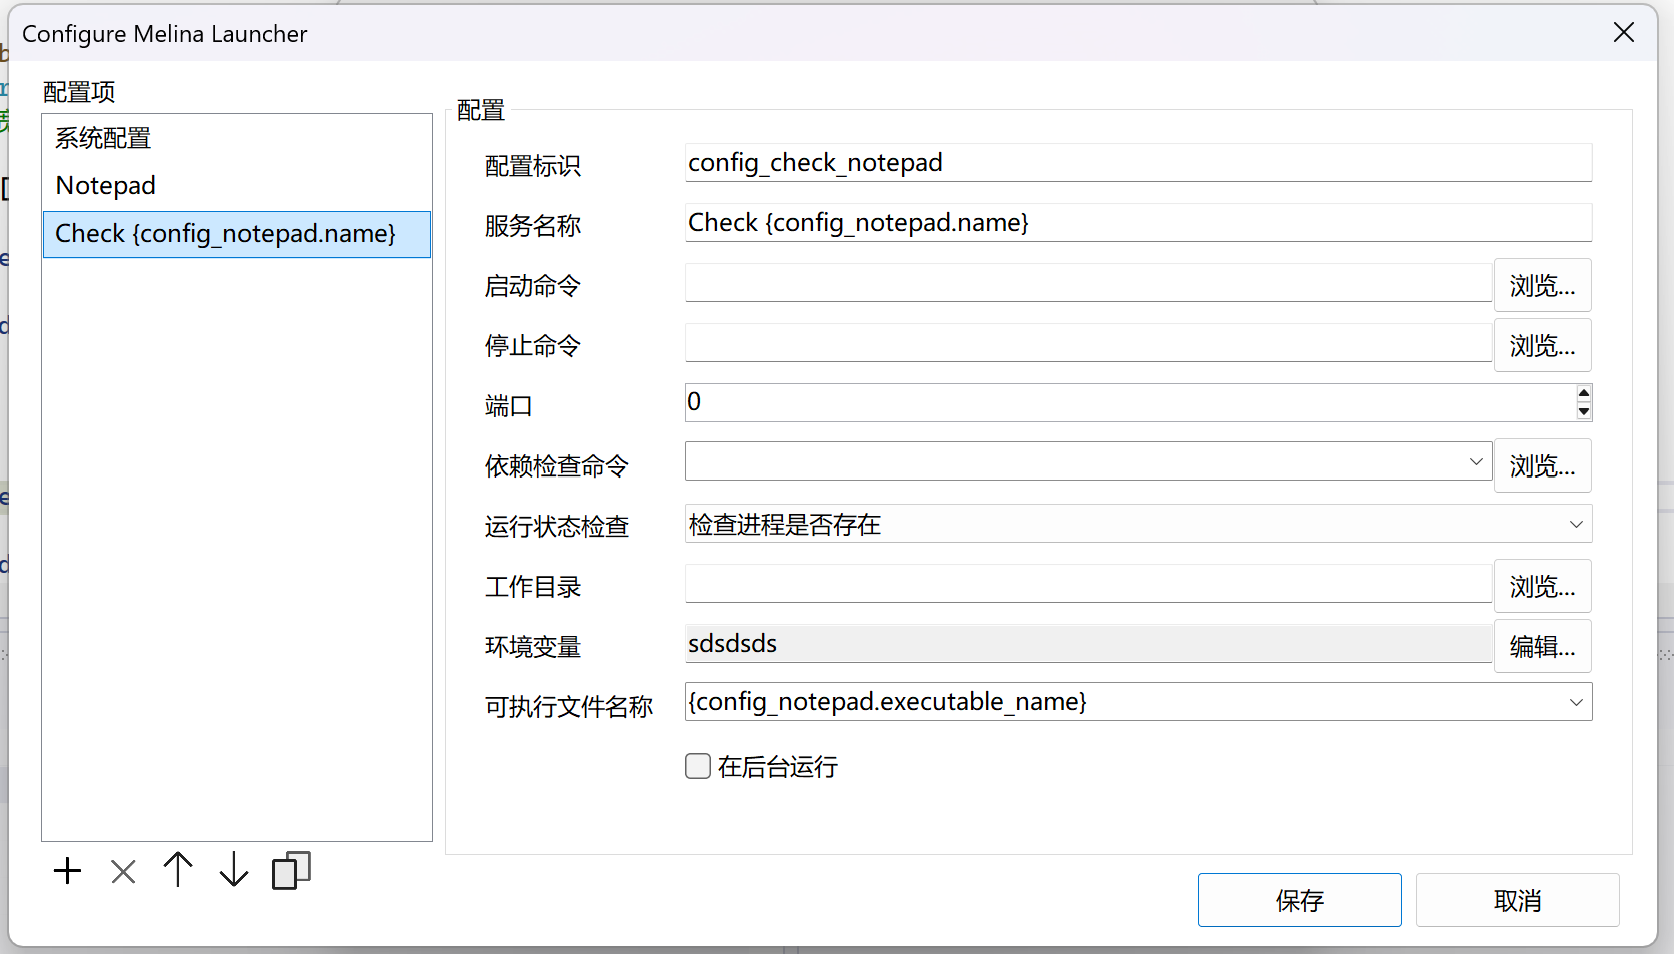
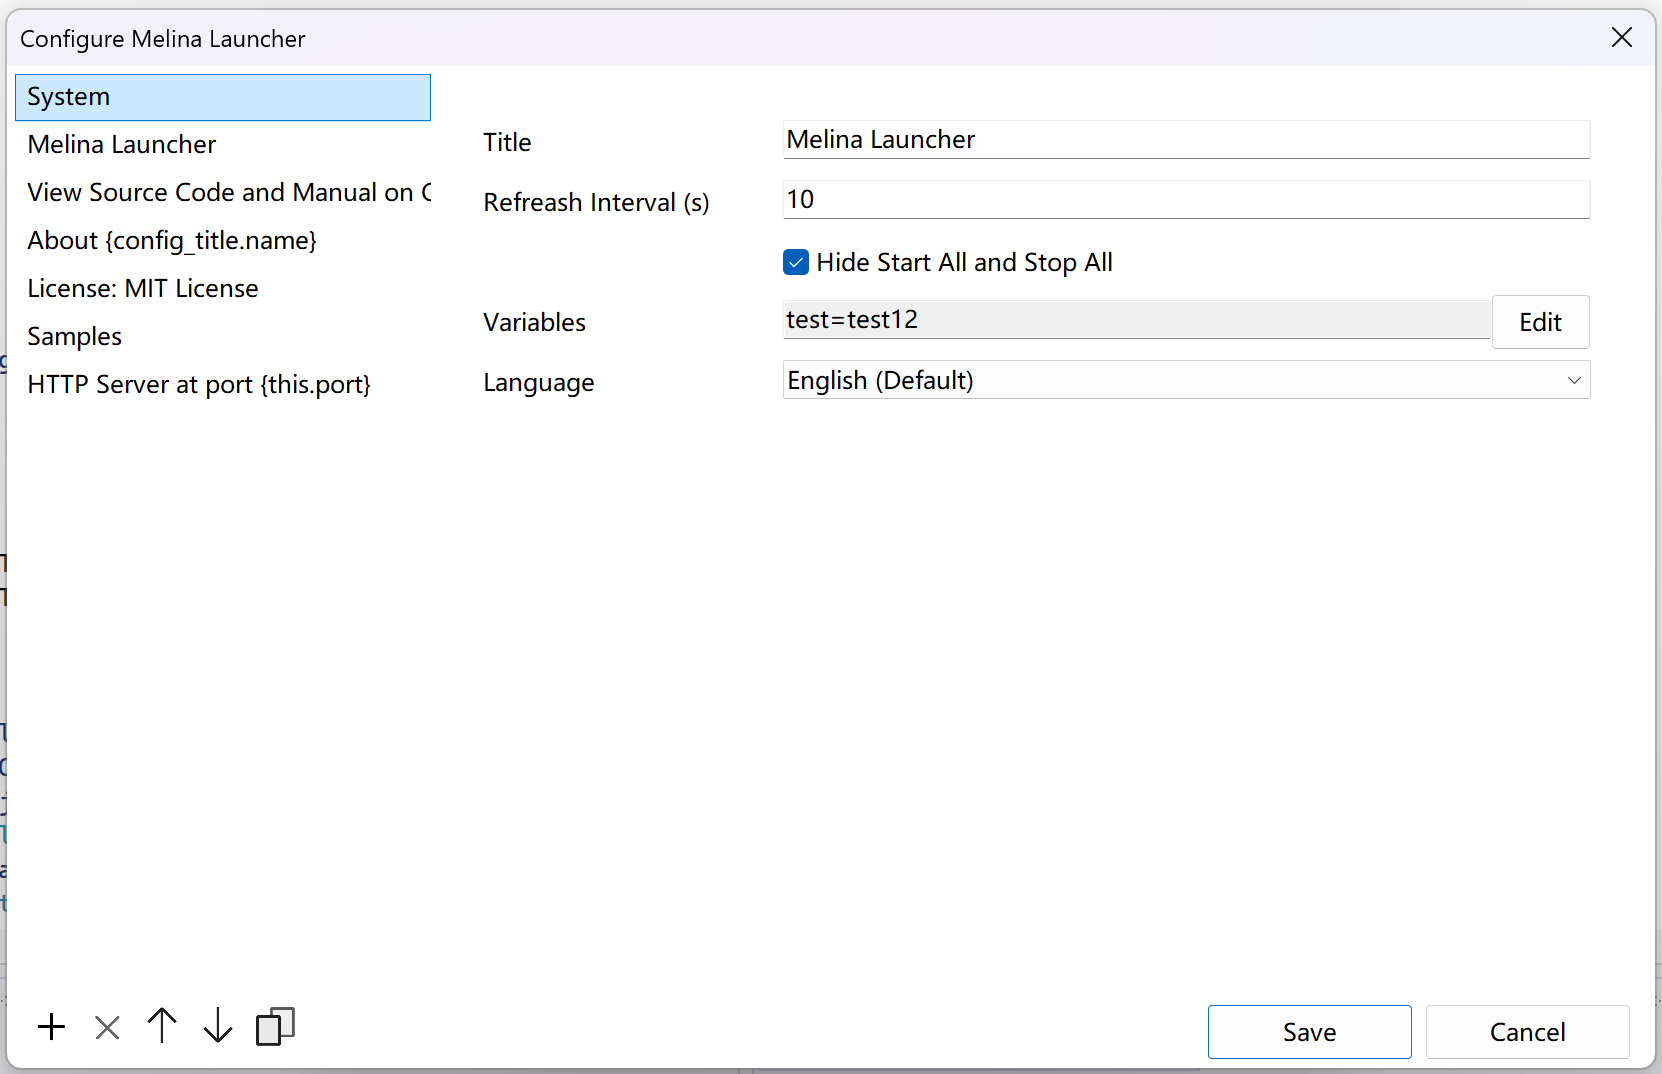
Update manual and documentations

diff --git a/README.md b/README.md
@@ -1,11 +1,244 @@
 # Melina Launcher
 
-## Screenshot
+Melina Launcher is a small Windows launcher for starting, stopping, and monitoring local programs.
 
-<img src="docs/main.png" width=400>
 
-<img src="docs/main1.png" width=600>
+## Screenshots
 
-------------------------
+<img src="docs/main.png" width="400" alt="Main launcher window">
 
-Created by Melina in Nov 2020
+<img src="docs/main1.png" width="600" alt="Configuration window">
+
+<img src="docs/main2.png" width="600" alt="Configuration window">
+
+## Open the Settings Window
+
+In normal use, you do not need to edit the `.toml` file by hand. The application has a built-in configuration window, and that window is the intended way to create and maintain launcher items. When you click Save, the app writes the configuration file beside the executable with the same base name and a `.toml` extension.
+
+The code provides two ways to open the built-in settings window:
+
+- Open the window system menu and choose `Settings...`.
+- Start the application with `-c` or `--config`.
+
+If no configuration file exists yet, the application creates a default one automatically before loading the main window.
+
+## How the Settings Window Works
+
+The settings window has two levels of configuration:
+
+- `System` is the global configuration for the whole launcher.
+- Every other item in the left list is one launcher entry.
+
+From the code, the editor supports these actions directly in the UI:
+
+- Add a new launcher entry.
+- Delete an existing entry.
+- Copy an entry.
+- Move an entry up or down.
+- Save changes.
+- Preview the generated configuration text.
+
+The main window reloads the configuration after the settings dialog closes, so saved changes take effect immediately in the launcher UI.
+
+## System Settings
+
+The `System` item controls launcher-wide behavior.
+
+| Setting | Variable Name | Meaning in the app |
+| --- | --- | --- |
+| Title | `title` | The text shown in the main window title bar and header. |
+| Refreash Interval (s) | `chk_interval` | Refresh interval for status checks, in seconds. The timer uses this value for automatic status refresh. |
+| Hide Start All and Stop All | `hide_one_key` | Hides the batch `Start All` and `Stop All` buttons in the main window when enabled. |
+| Variables | `var` | Shared variables for reuse across entries. Edited in a dedicated key/value editor dialog. |
+| Language | `language` | UI language for the launcher and settings window. The code currently supports `en`, `zh-Hans`, `zh-Hant`, and `ja`. |
+
+## Service Entry Settings
+
+Each non-system item represents one service, tool, or local application in the launcher.
+
+| Setting | Variable Name | Meaning in the app |
+| --- | --- | --- |
+| Section Name | N/A | Internal identifier for the entry. It is also the reference name used by cross-entry placeholders such as `{api.port}`. |
+| Service Name | `name` | Display name shown in the launcher list. |
+| Start Command | `command` | Start command. The launcher runs it through `cmd.exe /c`. |
+| Stop Command | `stop_command` | Optional custom stop command. If empty, the launcher falls back to stopping the monitored process for supported status modes. |
+| Port | `port` | Port number used by port-based status checking and port click actions. |
+| Dep Check Command | `requirement_command` | Pre-start requirement check. This can be a real command or a built-in special value. |
+| Status Check Method | `status_check_method` | How the launcher decides whether the entry is running. |
+| Working Directory | `workdir` | Working directory used when running `command` and `port_click_command`. |
+| Environment Variables | `environs` | Environment variables for the entry, edited as an ordered string array. |
+| Executable Name | `executable_name` | Process name used for executable-based status checking and file-existence checks. |
+| Run in Background | `run_background` | Starts the command with a hidden window when enabled. |
+| Port Click Command | `port_click_command` | Command executed when the port value is clicked in the main window. |
+| Bold Title | `display_bold` | Shows the entry name in bold in the main list. |
+| Disable this configure item | `disabled` | Prevents the entry from appearing in the main launcher UI. |
+
+## What the Main Window Does With These Settings
+
+- Disabled entries are skipped entirely when the main window builds the service list.
+- `title` becomes the main window title. If it is empty, the fallback title is `Melina Launcher`.
+- `hide_one_key` controls whether the two batch buttons are visible.
+- `chk_interval` becomes the refresh timer interval.
+- `language` is applied before the window text is refreshed.
+- Batch start and batch stop only act on visible, enabled entries.
+
+## Variables and References in the UI
+
+Even though the configuration is saved as text, the program supports references as a first-class feature in the editor. You enter these references in the relevant text fields inside the settings window, and the launcher resolves them when the configuration is loaded.
+
+Placeholders use the form `{reference}`. The code expands them repeatedly until the value stops changing, up to 50 rounds.
+
+### Shared Variables
+
+Global variables are managed from `System -> var`. The editor opens a dedicated key/value grid, so users add variables by rows instead of writing a map manually.
+
+- Keys are required.
+- Keys must be unique.
+- Lookup is case-insensitive.
+
+To use a shared variable in another field, enter:
+
+```text
+{system.var,variable_name}
+```
+
+Example:
+
+```text
+workdir = {system.var,project_root}
+command = dotnet run --project {system.var,project_root}\Api\Api.csproj
+```
+
+The loader also accepts `system.vars,key`, but the UI-generated configuration uses the `system.var,key` style.
+
+### Cross-Entry References
+
+Any entry can reference a setting from another entry by section name:
+
+```text
+{section_name.setting_name}
+```
+
+Example:
+
+```text
+{api.port}
+{web.workdir}
+```
+
+This is how one launcher item can reuse another item's port, working directory, or display text.
+
+### `this` References
+
+Inside one entry, you can refer to another setting in the same entry with:
+
+```text
+{this.setting_name}
+```
+
+Example:
+
+```text
+command = dashboard.exe --listen {this.port}
+port_click_command = explorer http://localhost:{this.port}
+```
+
+This is especially useful when the same port or path is used more than once in one entry.
+
+### Label Double-Click to Copy a Reference
+
+The settings form contains a small built-in helper: double-clicking a field label copies that field's reference text to the clipboard.
+
+For example, double-clicking the `port` label in an entry with section name `api` copies:
+
+```text
+{api.port}
+```
+
+This works for both system settings and service entry settings, except `section_name`.
+
+## Arrays and Key/Value Maps
+
+The UI treats arrays and maps as dedicated editors instead of plain text fields.
+
+### Arrays
+
+`environs` is edited in a separate string-array window. The code supports:
+
+- Add
+- Remove
+- Move up
+- Move down
+- Inline editing
+
+Each item is stored as one string, typically in `NAME=value` form.
+
+References can target the full array or one item by index:
+
+```text
+{entry.environs}
+{entry.environs,0}
+{entry.environs,1}
+```
+
+When the full array is referenced, the loader turns it into a semicolon-separated string.
+
+### Maps
+
+`System -> var` is the string-map editor. It is the only map-style setting exposed by the current code.
+
+Each row has:
+
+- `Key`
+- `Value`
+
+Those key/value pairs are what power `{system.var,key}` references throughout the launcher.
+
+## Special Setting Values
+
+Some settings have built-in behaviors beyond plain text.
+
+### `status_check_method`
+
+| Value | Meaning |
+| --- | --- |
+| `PORT_USAGE` | Treats the entry as running when something is listening on `port`. |
+| `EXECUTABLE_EXISTANCE` | Treats the entry as running when the target executable process exists. The spelling is kept exactly as used by the code. |
+| `NO_CHECK` | Disables running-state detection for the entry. |
+
+Notes from the implementation:
+
+- For `PORT_USAGE`, if `stop_command` is empty, the launcher stops the process by PID based on the port owner.
+- For `EXECUTABLE_EXISTANCE`, `executable_name` can be an exact name or a regex-like value wrapped in `/.../`.
+- If `executable_name` is empty, the launcher tries to infer the executable from the first token of `command`.
+
+### `requirement_command`
+
+| Value | Meaning |
+| --- | --- |
+| `CHECK_EXISTANCE` | Checks whether the executable file exists before start. The spelling is kept exactly as used by the code. |
+| `DO_NOT_CHECK` | Skips prerequisite validation. |
+| any other command | Runs the command and expects exit code `0`. |
+
+When `CHECK_EXISTANCE` is used, the launcher checks `executable_name` first. If that is empty, it falls back to the executable inferred from `command`.
+
+## Input Helpers in the Editor
+
+The settings UI includes several editor-specific helpers:
+
+- File-like fields such as `command`, `stop_command`, `requirement_command`, and `port_click_command` have a `Browse` button.
+- `workdir` has a folder browser.
+- Boolean settings appear as checkboxes when the current value is a valid boolean.
+- `language`, `status_check_method`, and some other fields use dropdown lists.
+- `port_click_command` offers ready-made browser-open commands for detected local IPv4 addresses, including a loopback default.
+
+## Practical Notes
+
+- `disabled` removes an entry from the visible launcher list rather than showing it in a disabled state.
+- `port_click_command` defaults to opening `http://localhost:<port>/` when left empty.
+- `environs` values are added to both `command` and `port_click_command`.
+- The launcher saves configuration back to disk in its own supported TOML-like format, so using the settings window is the safest workflow.
+
+----------------
+
+Created by Melina in Nov 2020.
